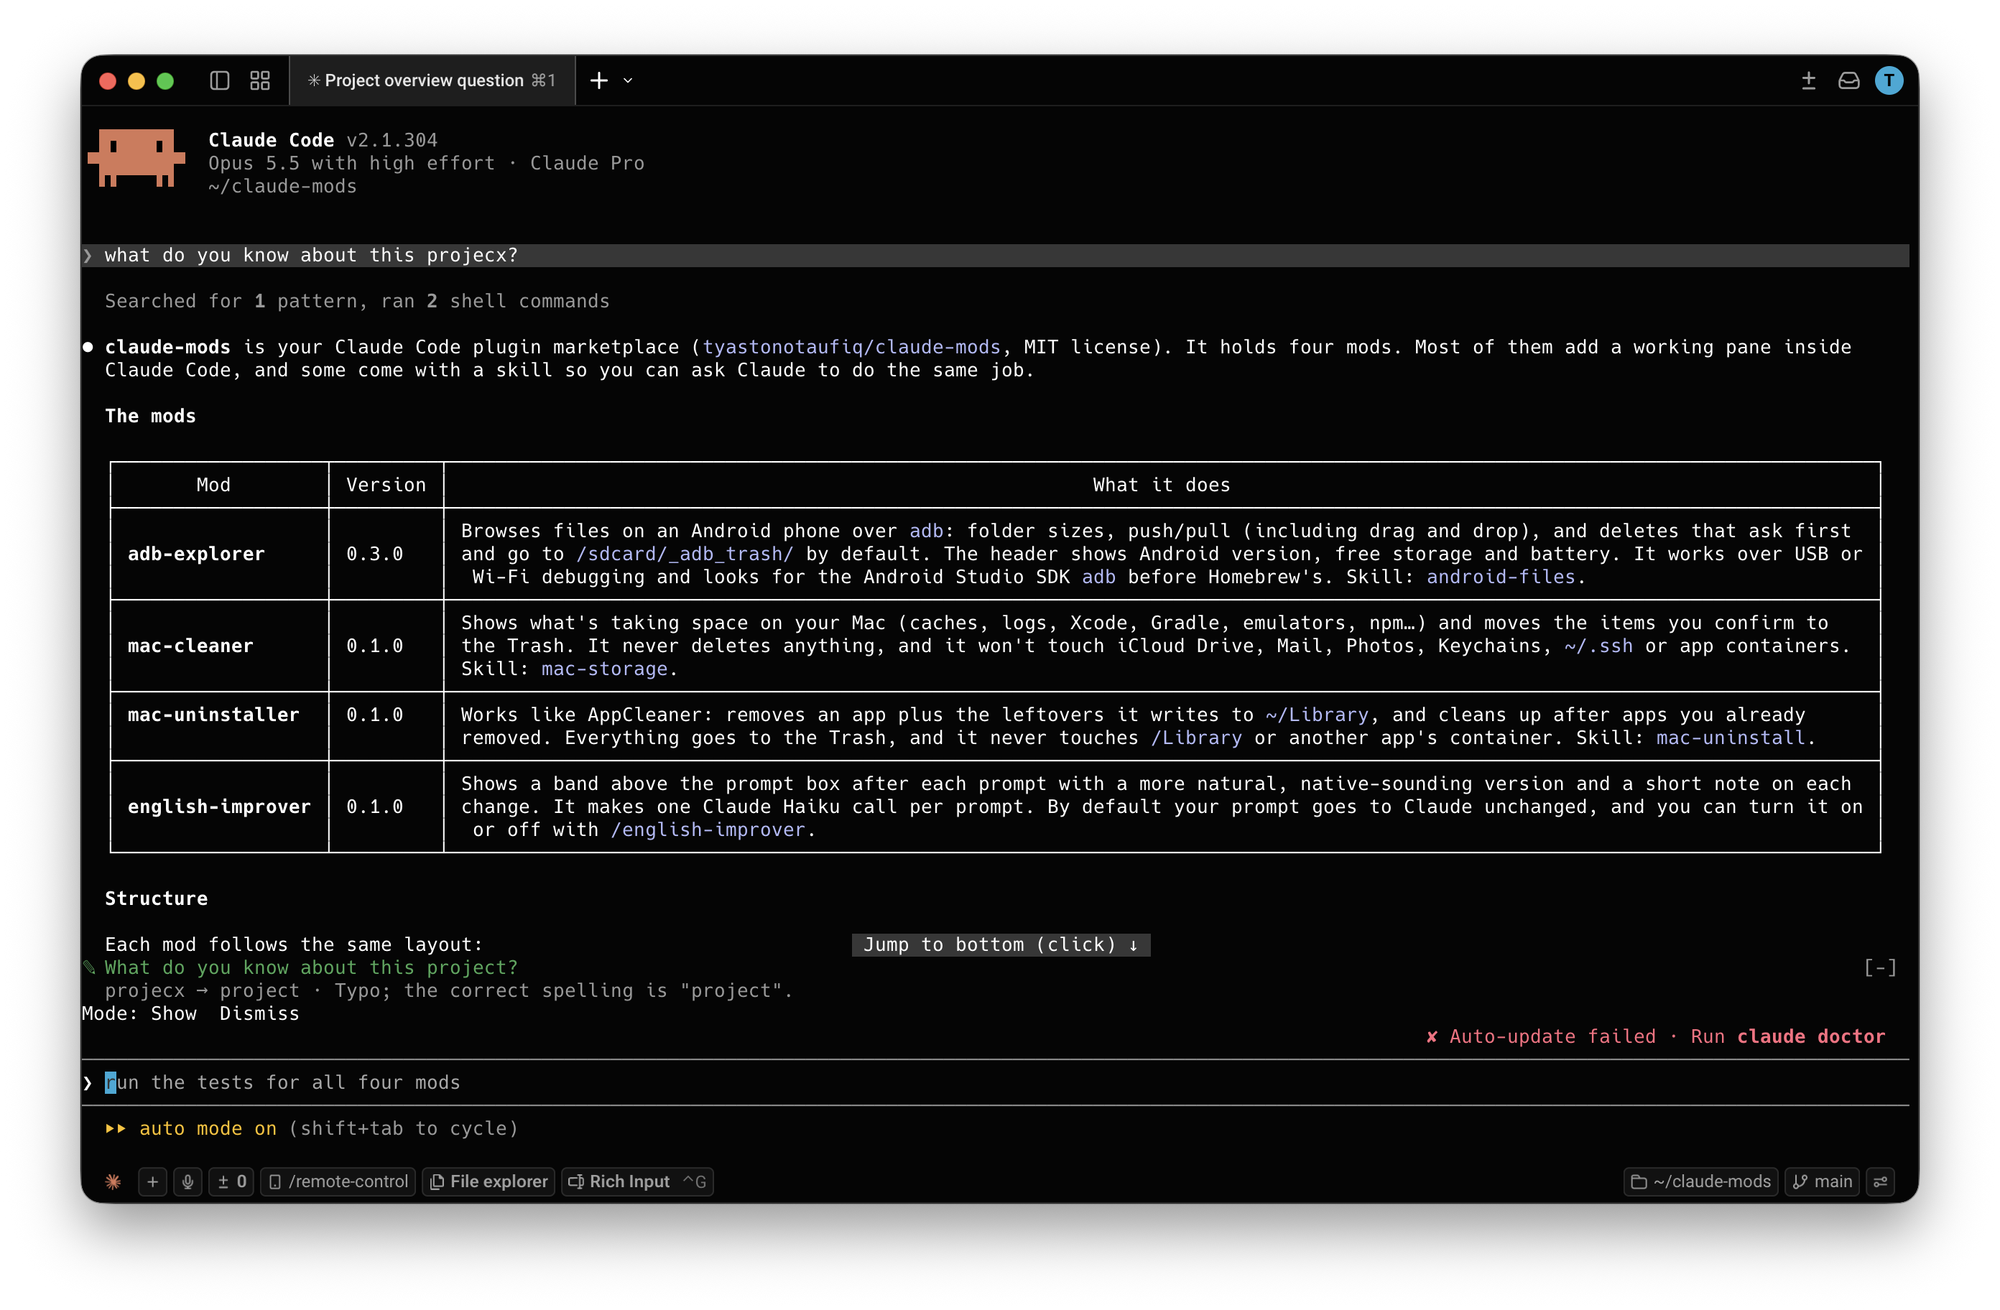
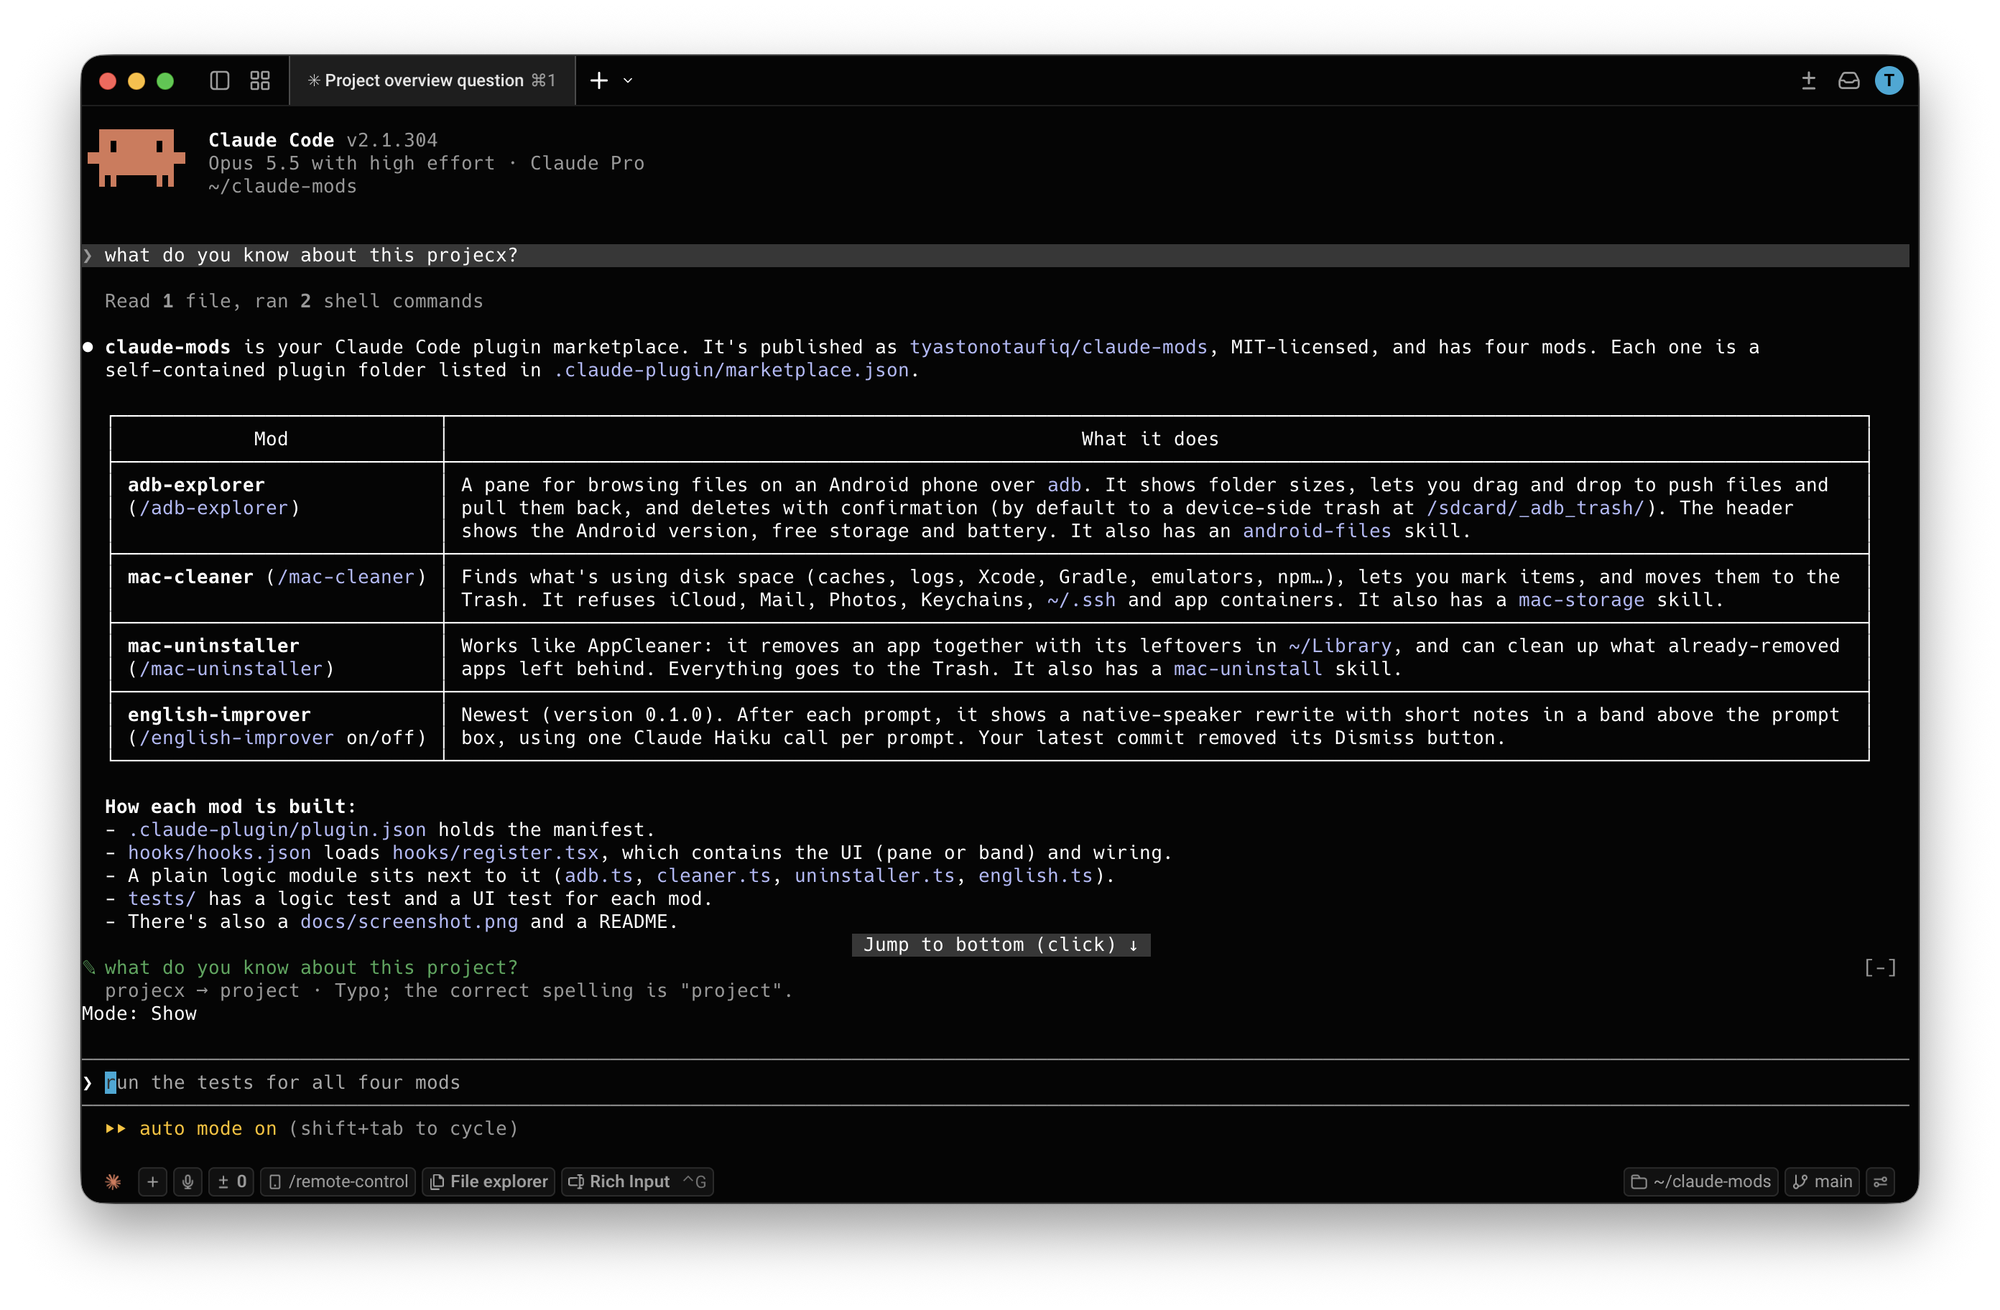
english-improver: update screenshot without the Dismiss button

diff --git a/english-improver/README.md b/english-improver/README.md
@@ -2,7 +2,7 @@
 
 A Claude Code plugin for people who write to Claude in English as a second language. After each prompt you send, it shows how a native speaker would write the same thing, with a short note on each change, in a band above the prompt box. You learn while you work. By default your prompt is never changed or delayed; you can also have Claude get the improved version instead, or pick each time.
 
-![The English Improver band above the Claude Code prompt box, suggesting "What do you know about this project?" for a prompt with a typo](./docs/screenshot.png)
+![The English Improver band above the Claude Code prompt box, suggesting "what do you know about this project?" for a prompt with a typo](./docs/screenshot.png)
 
 ```
 > when i click rescan inside app, it's show lefover
